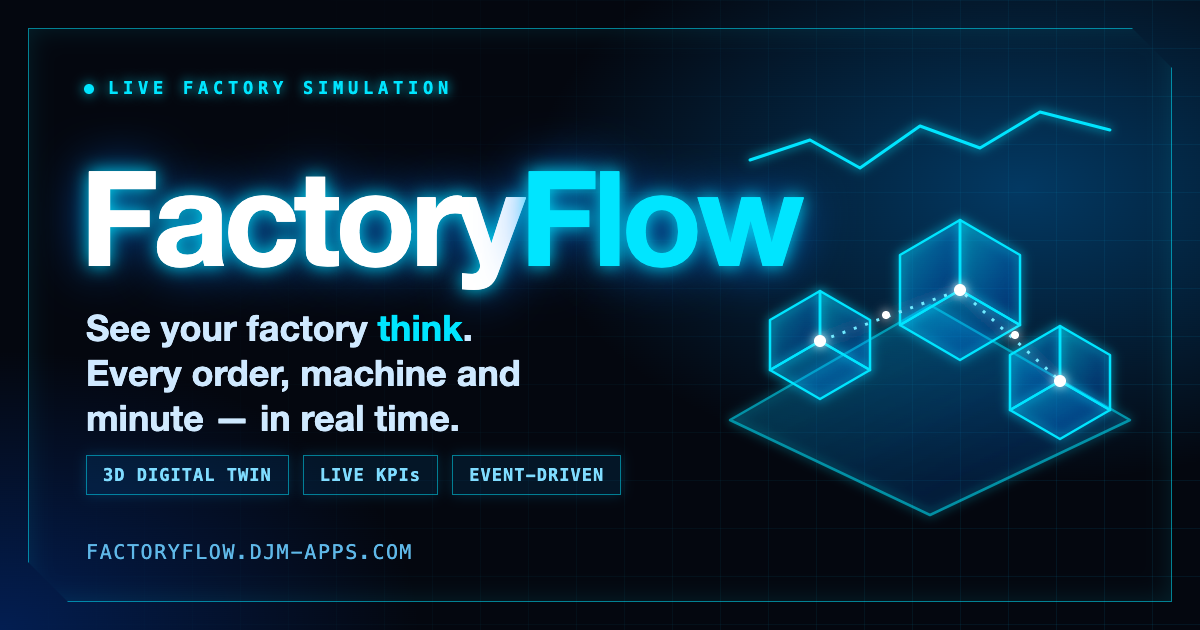
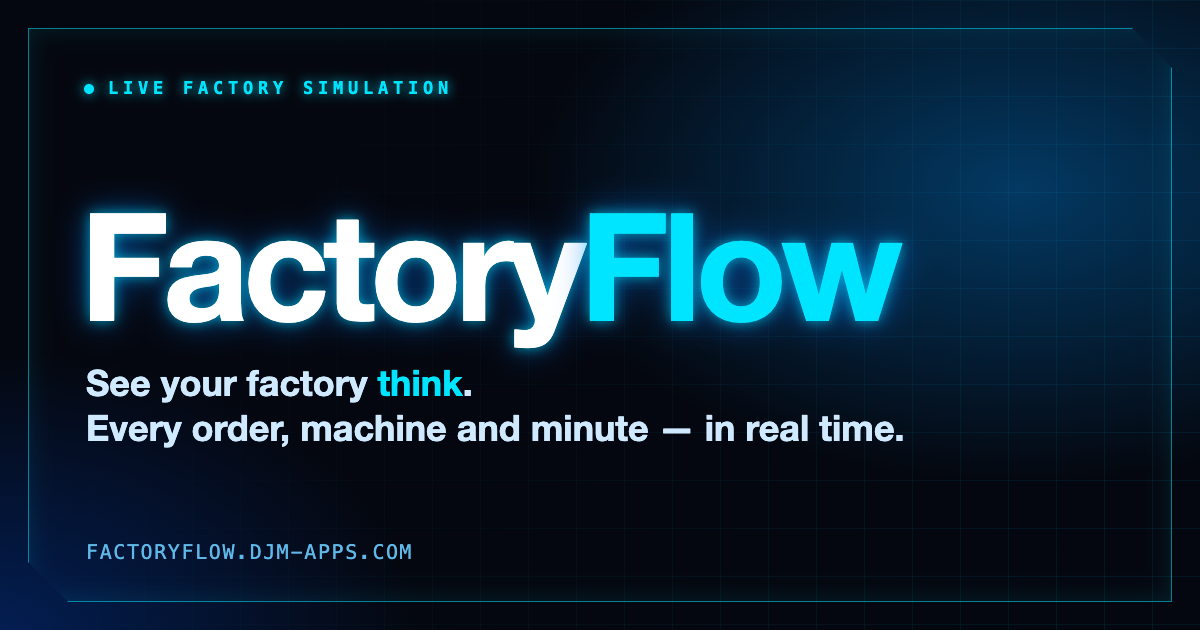
Simplify OG image: drop illustration and chips, soften title glow

Changed region(s): [[0.0308, 0.1508, 0.9558, 0.8143]]

diff --git a/design/og-image.html b/design/og-image.html
@@ -12,38 +12,15 @@ body{width:1200px;height:630px;overflow:hidden;background:#04070f;font-family:-a
  clip-path:polygon(0 0,calc(100% - 40px) 0,100% 40px,100% 100%,40px 100%,0 calc(100% - 40px))}
 .tag{position:absolute;left:84px;top:78px;font:600 17px "SF Mono",Menlo,monospace;letter-spacing:.28em;color:#00e5ff;text-shadow:0 0 12px rgba(0,229,255,.8)}
 .tag i{display:inline-block;width:10px;height:10px;border-radius:50%;background:#00e5ff;box-shadow:0 0 12px #00e5ff;margin-right:14px}
-h1{position:absolute;left:80px;top:150px;font-size:132px;font-weight:800;letter-spacing:-.04em;line-height:1;color:#fff;text-shadow:0 0 18px rgba(0,229,255,.9),0 0 50px rgba(0,120,255,.8)}
+h1{position:absolute;left:80px;top:190px;font-size:150px;font-weight:800;letter-spacing:-.04em;line-height:1;color:#fff;text-shadow:0 0 13px rgba(0,229,255,.63),0 0 35px rgba(0,120,255,.56)}
 h1 span{color:#00e5ff}
-.sub{position:absolute;left:86px;top:305px;width:560px;font-size:36px;font-weight:600;line-height:1.25;color:#cfe9ff}
+.sub{position:absolute;left:86px;top:360px;width:900px;font-size:36px;font-weight:600;line-height:1.25;color:#cfe9ff}
 .sub b{color:#00e5ff;font-weight:600}
-.chips{position:absolute;left:86px;top:455px;display:flex;gap:14px}
-.chips div{font:600 17px "SF Mono",Menlo,monospace;color:#7fdcff;border:1px solid rgba(0,229,255,.5);padding:9px 16px;background:rgba(0,150,255,.1);letter-spacing:.06em;box-shadow:0 0 12px rgba(0,180,255,.2)}
 .url{position:absolute;left:86px;bottom:66px;font:500 20px "SF Mono",Menlo,monospace;color:#5fb8e8;letter-spacing:.08em}
-svg{position:absolute;right:50px;top:90px}
 </style></head><body>
 <div class="bg"></div><div class="grid"></div><div class="frame"></div>
 <div class="tag"><i></i>LIVE FACTORY SIMULATION</div>
 <h1>Factory<span>Flow</span></h1>
 <div class="sub">See your factory <b>think</b>.<br>Every order, machine and minute — in real time.</div>
-<div class="chips"><div>3D DIGITAL TWIN</div><div>LIVE KPIs</div><div>EVENT-DRIVEN</div></div>
 <div class="url">FACTORYFLOW.DJM-APPS.COM</div>
-<svg width="440" height="440" viewBox="0 0 440 440" fill="none">
- <defs><filter id="g" x="-30%" y="-30%" width="160%" height="160%"><feGaussianBlur stdDeviation="5" result="b"/><feMerge><feMergeNode in="b"/><feMergeNode in="SourceGraphic"/></feMerge></filter>
- <linearGradient id="t" x1="0" y1="0" x2="1" y2="1"><stop offset="0" stop-color="#00e5ff" stop-opacity=".30"/><stop offset="1" stop-color="#0050ff" stop-opacity=".12"/></linearGradient></defs>
- <g filter="url(#g)" stroke="#00e5ff" stroke-width="2.5" stroke-linejoin="round">
-  <!-- isometric conveyor line -->
-  <path d="M20 330 L220 215 L420 330 L220 425 Z" fill="url(#t)" opacity=".55"/>
-  <!-- machine blocks -->
-  <g fill="url(#t)">
-   <path d="M60 280 L110 251 L160 280 L110 309 Z"/><path d="M60 280 V230 L110 201 V251 Z"/><path d="M110 251 L160 280 V230 L110 201 Z"/>
-   <path d="M190 235 L250 200 L310 235 L250 270 Z"/><path d="M190 235 V165 L250 130 V200 Z"/><path d="M250 200 L310 235 V165 L250 130 Z"/>
-   <path d="M300 320 L350 291 L400 320 L350 349 Z"/><path d="M300 320 V265 L350 236 V291 Z"/><path d="M350 291 L400 320 V265 L350 236 Z"/>
-  </g>
-  <!-- flow path -->
-  <path d="M110 251 L250 200 L350 291" stroke-dasharray="3 9" stroke-width="3" stroke="#6fe9ff"/>
- </g>
- <g fill="#fff" filter="url(#g)"><circle cx="110" cy="251" r="6"/><circle cx="250" cy="200" r="6"/><circle cx="350" cy="291" r="6"/><circle cx="176" cy="225" r="4"/><circle cx="305" cy="245" r="4"/></g>
- <!-- KPI sparkline -->
- <polyline filter="url(#g)" points="40,70 100,50 150,78 210,36 270,58 330,22 400,40" stroke="#00e5ff" stroke-width="3" stroke-linejoin="round" stroke-linecap="round"/>
-</svg>
 </body></html>

diff --git a/index.html b/index.html
@@ -26,7 +26,7 @@
     <meta property="og:image:type" content="image/png" />
     <meta property="og:image:width" content="1200" />
     <meta property="og:image:height" content="630" />
-    <meta property="og:image:alt" content="FactoryFlow: neon blue isometric factory with live KPI line" />
+    <meta property="og:image:alt" content="FactoryFlow: See your factory think. Live factory simulation." />
     <meta name="twitter:card" content="summary_large_image" />
     <meta name="twitter:title" content="FactoryFlow — See your factory think" />
     <meta
